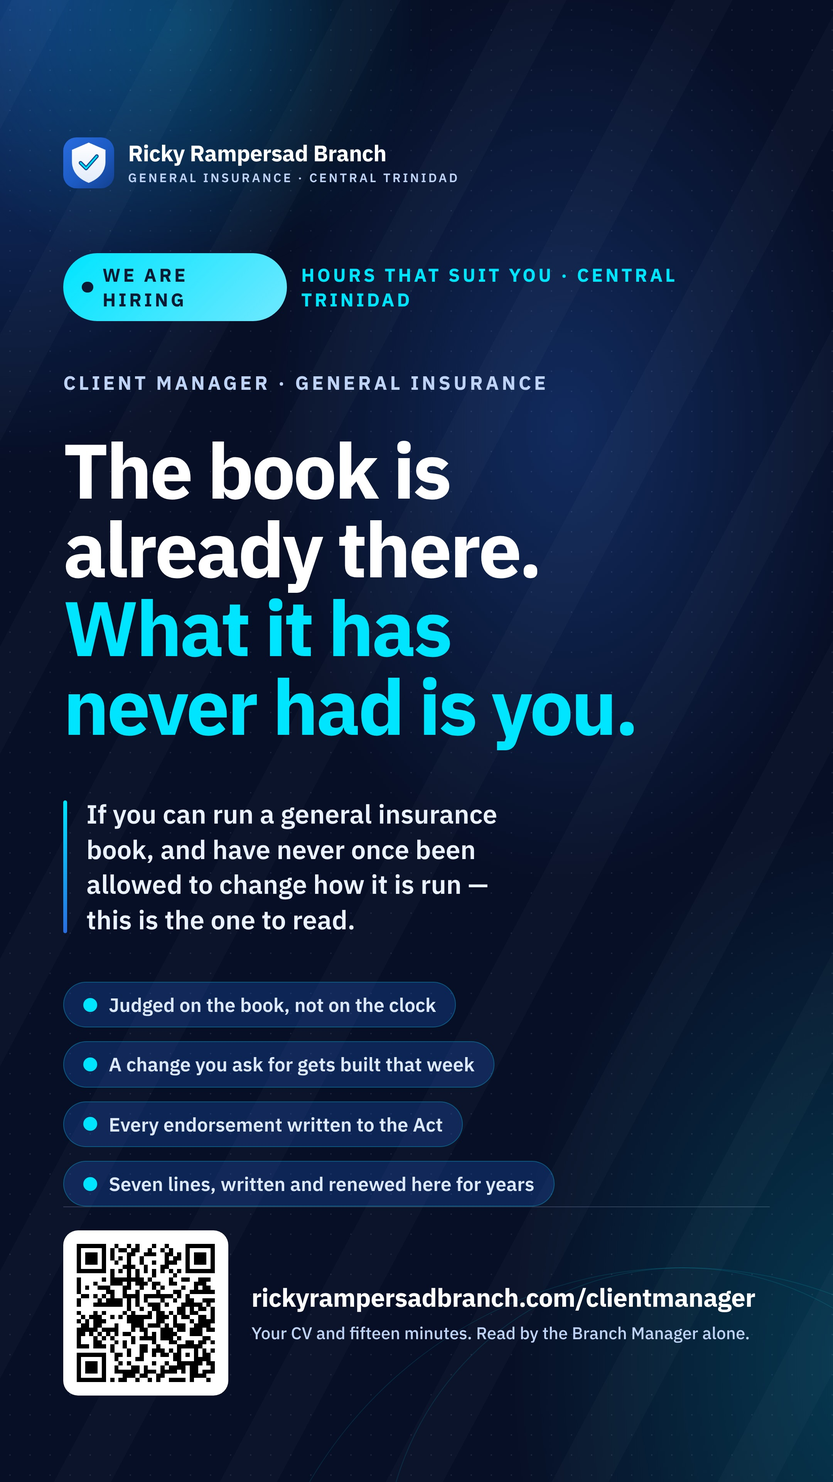
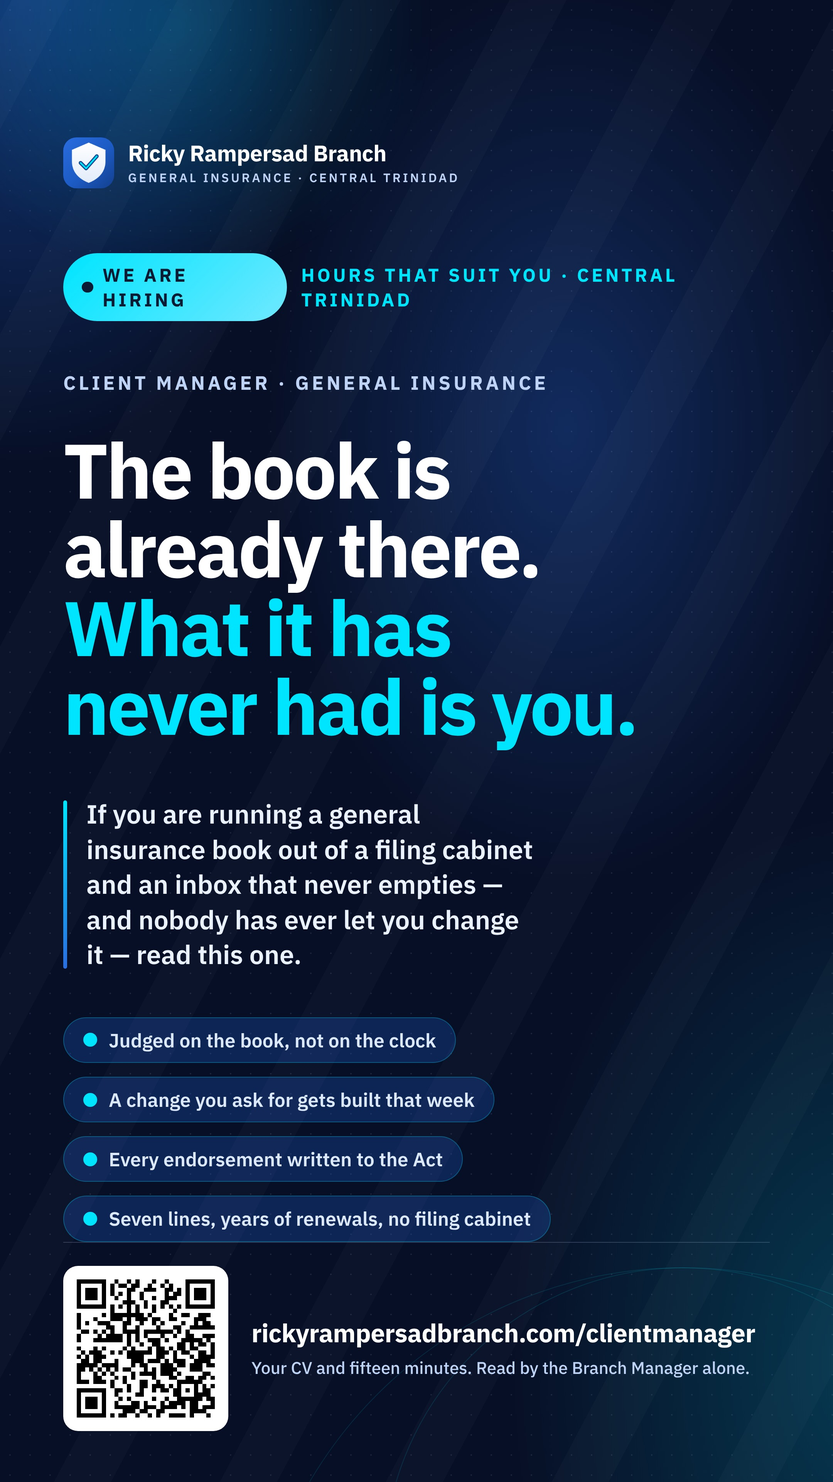
Client manager ad: name the filing cabinet, the paper and the inbox
Asked for in these words: "target where the work has become overwhelming
for persons with filing cabinets, manual, paper, and still depend on the
emails... our process is looking at the data and pulling and scrubbing
the insights and allowing our proven systems to do the research for you."

The page showed the machine, stop by stop, and never named the day the
right person is living. Nobody leaves a job for a feature list.

- a ledger section between the book and the seven stops: six rows,
  Everywhere else against Here, each answered by what the branch runs
- the attraction line opens on the cabinet and the inbox, autonomy
  second; the same line on the page and on all three posters
- the hero says there is no filing cabinet in this seat
- honest about paper: contracts and cheques still arrive. The claim is
  that no record here can only be found on paper

Three things it cost:

- the longer pull reopened the layout-shift bug in a second element:
  three lines in Inter Tight, four in the fallback from 768 up, so the
  hero reflowed and the buttons moved. CLS 0.0127 -> 0.0985 at 1366.
  .pull now reserves four lines. 0.0985 -> 0.0133
- 23px of the feed poster's foot outside the frame, the QR and the
  address gone. 24px out of three margins, nothing out of a line
- the header and every cell both said "Everywhere else". Dropped from
  the cells, operative phrase bolded on the right instead

Measured: 27 checks passing, no sideways scroll at nine widths, every
[…]

Changed region(s): [[0.062, 0.5312, 0.6824, 0.9688], [0.3102, 0.875, 0.8995, 0.9375]]

diff --git a/clientmanager/index.html b/clientmanager/index.html
@@ -152,7 +152,18 @@ section[id],[id]{scroll-margin-top:calc(var(--bar) + .75rem)}
 .hero strong,.hero b,.dark strong,.dark b{color:#fff}
 .ping{position:absolute;inset:0;margin:auto;width:8rem;height:8rem;
   border-radius:50%;border:1px solid var(--aL);opacity:0;pointer-events:none;z-index:1}
+/* The attraction line reserves four lines, and that is a layout-shift fix
+   rather than a style. 8 November 2026: the longer pull — the filing-cabinet
+   line — takes three lines in Inter Tight and four in the metric-matched
+   fallback at every width from 768 up, so when the font landed the whole hero
+   column reflowed by a line and the buttons under it moved: cumulative layout
+   shift 0.0127 -> 0.0985 at 1366. It is the h1's own bug (0.577, recorded in
+   RECRUITING-SETUP.md) in a second element, and the lesson there was that no
+   size-adjust holds a break that close. So the box is four lines tall
+   whichever face is drawing it; on a phone the line really is five, and the
+   min-height does nothing. Re-run the scan if these words change. */
 .pull{margin:var(--sp-m) 0 0;padding-left:var(--sp-m);max-width:46ch;
+  min-height:calc(4 * 1.32em);
   border-left:4px solid var(--aL);color:#fff;
   font:700 var(--f-1)/1.32 var(--display);letter-spacing:-.01em}
 
@@ -748,6 +759,47 @@ legend{font:600 var(--f--1)/1.4 var(--text);color:var(--ink);margin-bottom:.5rem
 .fileq textarea::placeholder{color:var(--dT3)}
 .fileq .pills label span{border-color:var(--d3);color:var(--dT2)}
 .fileq .pills input:checked+span{background:var(--aL);border-color:var(--aL);color:#06303a}
+
+/* ── the ledger: the day everywhere else, against the day here ──────────────
+   8 November 2026, asked for in these words: "target where the work has
+   become overwhelming for persons with filing cabinets, manual, paper, and
+   still depend on the emails." A ledger rather than prose, because the
+   contrast has to be READ, not argued: the left column is their Tuesday, the
+   right is ours, row by row. Two columns on a desk and one on a phone, where
+   each pair still reads as a pair.
+   No line through the left column. It reads as cancelled, and on a long row
+   of real sentences it is simply hard to read — the mark and the header
+   carry it. And the mark is never the only thing that says which column is
+   which: the header row says it in words. */
+.onwh{display:grid;grid-template-columns:repeat(auto-fit,minmax(min(100%,17rem),1fr));
+  gap:var(--sp-s);margin-top:var(--sp-l);font-family:var(--display);font-weight:700;
+  font-size:var(--f--2);letter-spacing:.09em;text-transform:uppercase}
+.onwh span{padding:0 1.1rem;min-width:0}
+.onwh .ha{color:var(--muted)}
+.onwh .hb{color:var(--aD)}
+.onw{display:grid;gap:var(--sp-s);margin:var(--sp-s) 0 0;padding:0;list-style:none}
+.onw>li{display:grid;grid-template-columns:repeat(auto-fit,minmax(min(100%,17rem),1fr));
+  gap:0;background:var(--card);border:1px solid var(--line);border-radius:var(--r);
+  overflow:hidden;box-shadow:var(--e1)}
+.onw .o,.onw .n{display:flex;gap:.7rem;padding:1rem 1.1rem;min-width:0}
+.onw .o{background:var(--bg2)}
+.onw .mk{flex:none;width:1.4rem;height:1.4rem;border-radius:50%;display:grid;
+  place-items:center;font-size:.78rem;font-weight:700;margin-top:.12rem;font-style:normal}
+.onw .o .mk{background:#e3dccb;color:#5f553f}
+.onw .n .mk{background:var(--a-tint2);color:var(--aD)}
+.onw p{margin:0;font-size:var(--f--1);line-height:1.5;min-width:0;overflow-wrap:anywhere}
+.onw .o p{color:var(--muted)}
+.onw .n p{color:var(--body)}
+.onw .n b{color:var(--ink)}
+@media (max-width:34rem){
+  .onwh{display:none}
+  .onw .o,.onw .n{position:relative}
+  .onw .o::before,.onw .n::before{content:"Everywhere else";position:absolute;
+    top:.3rem;left:3.2rem;font-family:var(--display);font-size:.62rem;font-weight:700;
+    letter-spacing:.1em;text-transform:uppercase;color:var(--muted)}
+  .onw .n::before{content:"Here";color:var(--aD)}
+  .onw .o,.onw .n{padding-top:1.6rem}
+}
 </style>
 </head>
 <body>
@@ -792,8 +844,8 @@ legend{font:600 var(--f--1)/1.4 var(--text);color:var(--ink);margin-bottom:.5rem
     <p class="vac"><i aria-hidden="true"></i>We are hiring &middot; General insurance &middot; Hours that suit you</p>
     <span class="eyebrow">Client Manager &middot; General Insurance</span>
     <h1 data-words>The book is already there. <em>What it has never had is you.</em></h1>
-    <p class="pull">If you can run a general insurance book, and have never once been allowed to change how it is run &mdash; this is the one to read.</p>
-    <p class="hsub">A general insurance book that has been written and renewed here year after year, across <strong>seven lines of business</strong>, personal and commercial, with renewals falling in every month. Until now the Branch Manager has looked after it himself, alongside everything else a branch asks of him &mdash; and <strong>it has outgrown that</strong>. What it needs is one person whose whole job it is. Every piece of the re-keying is already built and running, <strong>you are judged on the book rather than on the clock</strong>, and the one thing nobody has settled &mdash; how this agency advises its clients, and how it stays compliant doing it &mdash; is left to the person in the seat.</p>
+    <p class="pull">If you can run a general insurance book out of a filing cabinet and an inbox that never empties &mdash; and nobody has ever let you change any of it &mdash; this is the one to read.</p>
+    <p class="hsub">A general insurance book that has been written and renewed here year after year, across <strong>seven lines of business</strong>, personal and commercial, with renewals falling in every month. Until now the Branch Manager has looked after it himself, alongside everything else a branch asks of him &mdash; and <strong>it has outgrown that</strong>. What it needs is one person whose whole job it is. There is no filing cabinet in this seat: <strong>the re-keying, the chasing and the research are already built and running</strong>, the record is pulled from every source and scrubbed before you read it, <strong>you are judged on the book rather than on the clock</strong>, and the one thing nobody has settled &mdash; how this agency advises its clients, and how it stays compliant doing it &mdash; is left to the person in the seat.</p>
     <div class="ctas">
       <a class="btn btn-1" href="#apply">Apply &mdash; CV and fifteen minutes <svg class="ic" aria-hidden="true"><use href="#i-arrow"/></svg></a>
       <a class="btn btn-2" href="#file">Read a file first</a>
@@ -942,6 +994,56 @@ legend{font:600 var(--f--1)/1.4 var(--text);color:var(--ink);margin-bottom:.5rem
       <li><svg class="ic" aria-hidden="true"><use href="#i-spark"/></svg><span><b>Marine and cargo</b> sit in the system with nothing written on them yet. That is room, and it would be yours.</span></li>
     </ul>
     <p class="small rv" style="margin-top:var(--sp-m);max-width:62ch">To be exact about the relationship: this is the <strong>branch&rsquo;s own general insurance agency</strong>. The risk is carried by the insurer and the agency places with them; the underwriting authority is theirs. What sits with you is everything on the client&rsquo;s side of that line &mdash; what we put up, how it is presented, the endorsement mid-term, the renewal conversation, the advice on what the cover does and does not do, and the compliance standard all of it is written to. The branch&rsquo;s group health and group life book sits beside this one with its own team; it is not part of this seat.</p>
+  </div>
+</section>
+
+<!-- Who the ad is actually for. 8 November 2026, in these words: "the
+     traditional agency where a person cannot excel has the old way where
+     filing cabinets, files, paper... you specifically want to target where
+     the work has become overwhelming for persons with filing cabinets,
+     manual, paper, and still depend on the emails."
+     The page already showed the machine, in #tech. What it never did was
+     name the day the right person is living, and nobody moves job because
+     of a feature list — they move because somebody described their Tuesday.
+     Every line in the right-hand column is running in the branch today and
+     is shown working further down this page. Honest about paper: contracts
+     and cheques still arrive on paper from the insurer. What does not exist
+     here is a record that can only be found on paper. -->
+<section id="old">
+  <div class="wrap">
+    <div class="rv" style="max-width:54rem">
+      <span class="eyebrow">If this is your Tuesday</span>
+      <h2 data-words>The filing cabinet, the re-keying, the chasing. None of that is the job here.</h2>
+      <p class="lede">This is the part of the page that is really about you rather than about the book. If the left column is your week &mdash; the drawer, the duplicate file, the inbox you never reach the bottom of &mdash; then read the right one twice. Every line of it is running in this branch today, and you can watch it work before you apply.</p>
+    </div>
+    <div class="onwh rv" aria-hidden="true"><span class="ha">Everywhere else</span><span class="hb">Here</span></div>
+    <ul class="onw">
+      <li class="rv">
+        <div class="o"><i class="mk" aria-hidden="true">&#10005;</i><p>the renewal file comes out of a drawer, and last year&rsquo;s is in a different drawer, and the year before that is in storage.</p></div>
+        <div class="n"><i class="mk" aria-hidden="true">&#10003;</i><p><b>Every term since the policy began</b> opens on one screen &mdash; what was covered, at what value, what was paid and how late, and the claims that fell in each term &mdash; before you touch the file.</p></div>
+      </li>
+      <li class="rv">
+        <div class="o"><i class="mk" aria-hidden="true">&#10005;</i><p>you type the client&rsquo;s details into the insurer&rsquo;s proposal form again, from a file you already have open.</p></div>
+        <div class="n"><i class="mk" aria-hidden="true">&#10003;</i><p><b>Guardian&rsquo;s own PDFs fill themselves field by field</b> from what we hold &mdash; the proposal, Know Your Policy, the due-diligence checklist &mdash; and attach themselves. Not a retyped copy: the insurer&rsquo;s actual form, still editable at the other end.</p></div>
+      </li>
+      <li class="rv">
+        <div class="o"><i class="mk" aria-hidden="true">&#10005;</i><p>the insight is whatever you happened to notice while the client was on the phone.</p></div>
+        <div class="n"><i class="mk" aria-hidden="true">&#10003;</i><p><b>The desk has already read the record</b> and tells you what to raise first &mdash; the value carried unchanged for two terms running, the sum insured that no longer means anything, the premium paid late last year, the bank on the policy, the claim still open.</p></div>
+      </li>
+      <li class="rv">
+        <div class="o"><i class="mk" aria-hidden="true">&#10005;</i><p>you chase the client, or the renewal quietly goes, and the first anyone knows is the lapse.</p></div>
+        <div class="n"><i class="mk" aria-hidden="true">&#10003;</i><p><b>The client is reminded at fourteen days and again at ten</b>, a call opens itself at seven, and when the insurer answers late the desk chases that too, on the record. Nothing lapses because a person was busy.</p></div>
+      </li>
+      <li class="rv">
+        <div class="o"><i class="mk" aria-hidden="true">&#10005;</i><p>what the client holds is in your head, or in an e-mail thread you have to go and find.</p></div>
+        <div class="n"><i class="mk" aria-hidden="true">&#10003;</i><p><b>The client signs in with a code to their own inbox</b> and reads it themselves &mdash; every year since inception, what it covered, what was billed and paid, and the claims &mdash; then confirms and signs on their phone.</p></div>
+      </li>
+      <li class="rv">
+        <div class="o"><i class="mk" aria-hidden="true">&#10005;</i><p>the data lives in four places that disagree, and reconciling them is somebody&rsquo;s evening.</p></div>
+        <div class="n"><i class="mk" aria-hidden="true">&#10003;</i><p><b>It is pulled from all of them and scrubbed before you see it</b> &mdash; duplicate terms, a mid-term change kept as its own policy, a vehicle carried under a changed number &mdash; and where the insurer&rsquo;s figure and ours disagree, the desk says which and by how much.</p></div>
+      </li>
+    </ul>
+    <p class="small rv" style="margin-top:var(--sp-m);max-width:62ch">To be honest about paper: it has not vanished. Contracts and cheques still come to us from the insurer, and a client still signs things. What does not exist here is <strong>a record that can only be found on paper</strong> &mdash; every document that arrives is logged, routed to the right department, signed for by name and tracked until it is answered, and the branch wrote that too. The work the cabinet used to make is gone. The judgement it was hiding is the job.</p>
   </div>
 </section>
 

diff --git a/tools/ads/build-ad.py b/tools/ads/build-ad.py
@@ -50,12 +50,18 @@ ADS = {
         'role': 'Client Manager &middot; General Insurance',
         'head': ['The book is', 'already there.'],
         'em': ['What it has', 'never had is you.'],
-        'pull': 'If you can run a general insurance book, and have never once been '
-                'allowed to change how it is run &mdash; this is the one to read.',
+        # 8 November 2026: "target where the work has become overwhelming for
+        # persons with filing cabinets, manual, paper, and still depend on the
+        # emails." The pull names that day first and the autonomy second — a
+        # feature list moves nobody; a description of their own Tuesday does.
+        # It is the page's own pull, tightened for the frame.
+        'pull': 'If you are running a general insurance book out of a filing cabinet '
+                'and an inbox that never empties &mdash; and nobody has ever let you '
+                'change it &mdash; read this one.',
         'chips': ['Judged on the book, not on the clock',
                   'A change you ask for gets built that week',
                   'Every endorsement written to the Act',
-                  'Seven lines, written and renewed here for years'],
+                  'Seven lines, years of renewals, no filing cabinet'],
         'url': 'rickyrampersadbranch.com/clientmanager',
         'qr': 'qr-cmadmin.png',
         'foot': 'Your CV and fifteen minutes. Read by the Branch Manager alone.',
@@ -180,11 +186,15 @@ h1 .em{color:var(--cyan);display:block}
   --f-mast:26px; --f-mast-s:14px; --f-badge:21px; --f-h:82px; --f-role:22px;
   --f-pull:29px; --f-chip:21px; --f-url:29px; --f-foot:19px}
 .feed .in{padding:62px 70px 58px}
-.feed .mast{margin-bottom:44px}
-.feed .badge{margin-bottom:26px}
+/* 8 November 2026: the longer pull — the filing-cabinet line — put 23px of
+   the foot outside the 1350 frame, which is the QR and the address simply
+   gone. The frame gives, the copy does not: 24px came out of three margins
+   and nothing came out of a line. */
+.feed .mast{margin-bottom:32px}
+.feed .badge{margin-bottom:22px}
 .feed h1{margin-bottom:22px}
 .feed .role{margin-bottom:26px}
-.feed .pull{margin-bottom:34px}
+.feed .pull{margin-bottom:26px}
 
 /* ── story · 1080x1920 ────────────────────────────────────────────────────── */
 .story{width:1080px;height:1920px;--mk:66px;--qr:214px;

diff --git a/RECRUITING-SETUP.md b/RECRUITING-SETUP.md
@@ -258,6 +258,72 @@ branch. Send this to one person rather than broadcasting it:
 > rickyrampersadbranch.com/buildwithus. Have a look and tell me honestly if it
 > is you.
 
+## Who the ad is for: the filing cabinet, 8 November 2026
+
+Asked for in these words: *"the traditional agency where a person cannot excel
+has the old way where filing cabinets, files, paper... you specifically want to
+target where the work has become overwhelming for persons with filing cabinets,
+manual, paper, and still depend on the emails. Where our process is that looking
+at the data and pulling and scrubbing the insights and allowing our proven
+systems to make and do the research for you."*
+
+The page already showed the machine, stop by stop, in `#tech`. What it had never
+done is **name the day the right person is living**. Nobody leaves a job because
+of a feature list; they leave because somebody described their own Tuesday back
+to them. So:
+
+- **A ledger section, `#old`**, between the book and the seven stops: six rows,
+  *Everywhere else* against *Here*. The drawer and last year's file in a
+  different drawer; re-keying the client into the insurer's proposal form; the
+  insight being whatever you happened to notice; chasing the client or losing
+  the renewal; what the client holds living in your head or an e-mail thread;
+  the data in four places that disagree. Each answered by the thing the branch
+  actually runs.
+- **The attraction line names it first and the autonomy second.** It was *"and
+  have never once been allowed to change how it is run"* alone; it now opens on
+  the cabinet and the inbox. Same line on the page and on all three posters,
+  which is the rule.
+- **The hero says there is no filing cabinet in this seat**, and that the record
+  is pulled from every source and scrubbed before you read it.
+
+**Honest about paper, which is what makes it believable.** Contracts and cheques
+still arrive from the insurer and clients still sign things. The claim is not
+that paper is gone — it is that **no record here can only be found on paper**:
+every document that arrives is logged, routed, signed for by name and tracked
+until it is answered. Claiming a paperless office to somebody who has worked in
+insurance for fifteen years loses them at the first sentence.
+
+### Three things it cost
+
+- **The longer pull reopened the layout-shift bug, in a second element.** Three
+  lines in Inter Tight and four in the metric-matched fallback at every width
+  from 768 up, so the hero column reflowed by a line when the font landed and
+  the buttons under it moved: **CLS 0.0127 → 0.0985 at 1366**. It is the h1's own
+  0.577 bug one element down, and the lesson there holds — no `size-adjust`
+  closes a gap that narrow. `.pull` now reserves `calc(4 * 1.32em)`, so the box
+  is four lines tall whichever face draws it; on a phone the line genuinely is
+  five and the `min-height` does nothing. **0.0985 → 0.0133.** The scan that
+  finds this (`scan.js` in the session scratchpad) prints the line count per
+  face per width; re-run it if these words change.
+- **The longer pull put 23px of the feed poster's foot outside the frame** — the
+  QR and the address simply gone. The frame gives, the copy does not: 24px came
+  out of three margins in `.feed`, and nothing came out of a line.
+- **The column header and every cell were both saying "Everywhere else".** The
+  header row says it on a desk, a `::before` label says it on a phone, and the
+  cell said it a third time in bold. Dropped from the cells, and the operative
+  phrase bolded on the right instead — the same cleanup the hiring board's cards
+  needed the day before.
+
+Measured after: no sideways scroll at 360/375/390/414/768/1024/1280/1366/1920,
+every row revealed with motion on **and** with `prefers-reduced-motion: reduce`,
+contrast composited through translucency (worst 5.09:1, the left column on its
+own tint), and each pair still stacking as a pair on a phone with its label.
+
+**The film does not say any of this yet.** `film-w.mp4` covers the machine but
+not the cabinet, and its lines are voiced — adding it means re-voicing one or
+two and re-rendering. Left until asked, and recorded here so the page and the
+film are known to be one beat apart rather than silently disagreeing.
+
 ### Notes on the wording
 
 - **Never "administrative assistant" in the headline.** The person we want has
@@ -1110,13 +1176,15 @@ in the same scene.
 >
 > **The book is already there. What it has never had is you.**
 >
-> *If you can run a general insurance book, and have never once been allowed to change how it is run — this is the one to read.*
+> *If you are running a general insurance book out of a filing cabinet and an inbox that never empties — and nobody has ever let you change any of it — this is the one to read.*
 >
 > I have spent thirty-five years in this business, and the general insurance book at the Ricky Rampersad Branch is one I built myself. It has done well, and it has renewed year after year. But I am running a branch, and my time is needed across all of it.
 >
 > So this book needs somebody whose whole attention it is. Seven lines of business — motor and fleet, household, commercial property, public liability, workers' compensation, machinery and plant, bonds — personal and commercial, with renewals falling in every month of the year.
 >
-> Here is what you would be walking into. The quote fills itself from the client's own record. Guardian's proposal form and the customer due-diligence checklist are filled by the system, field by field, and attached. The renewal desk reads every term since the policy began — not just this year's — before anyone opens the file. The insurer's notice is read and checked figure by figure against our own record, and where the two disagree the desk says so.
+> Here is what you would be walking into. There is no filing cabinet. The quote fills itself from the client's own record. Guardian's proposal form and the customer due-diligence checklist are filled by the system, field by field, and attached — the insurer's actual PDFs, not retyped versions. The renewal desk reads every term since the policy began — not just this year's — before anyone opens the file. The insurer's notice is read and checked figure by figure against our own record, and where the two disagree the desk says which and by how much.
+>
+> And it does the reading for you. The record is pulled out of every place it lives and scrubbed before you see it — duplicate terms, a mid-term change kept as its own policy, a vehicle carried under a changed number — and then the desk tells you what to raise first: the value carried unchanged two terms running, the sum insured that no longer means anything, the premium paid late last year, the claim still open. The client is reminded at fourteen days and again at ten, a call opens itself at seven, and the client signs in with a code to their own inbox and reads every year of their own history themselves.
 >
 > None of that is a plan. It is built and it is running, and you can see it before you apply.
 >
@@ -1146,7 +1214,7 @@ in the same scene.
 >
 > Not a new book: one that has been written and renewed here year after year. Seven lines of business, personal and commercial, with renewals every month. The Branch Manager built it himself and his time is needed across the branch, so it needs its own person.
 >
-> The paperwork side is built: the quote and the forms fill themselves from the record, and every term since the policy began is on the screen before you open the file.
+> There is no filing cabinet. The quote and Guardian's own forms fill themselves from the record, every term since the policy began is on the screen before you open the file, and the record is pulled from every place it lives and scrubbed before you see it — then the desk tells you what to raise first. The client is reminded at fourteen days and ten, a call opens itself at seven, and they sign in and read their own history.
 >
 > So the job is the advice, the endorsements and the renewal conversation. And if you ask for a change here, it gets built that week.
 >
@@ -1169,9 +1237,11 @@ in the same scene.
 > spent underwriting. Professional qualifications (ACII, CII Diploma or
 > Certificate, or part-qualified) are asked for and count.
 >
-> The branch has written its own software, so the quote, the forms, the
-> renewal history and the claim checks are already automated — and a change
-> you ask for is built, not queued.
+> No filing cabinet and no re-keying: the branch has written its own
+> software, so the quote, Guardian's own forms, the full renewal history
+> since inception and the claim checks are already automated, the record is
+> pulled from every source and scrubbed before you read it, and the system
+> says what to raise first — and a change you ask for is built, not queued.
 >
 > CV and application at **rickyrampersadbranch.com/clientmanager**. Read by the
 > Branch Manager personally and treated confidentially.
